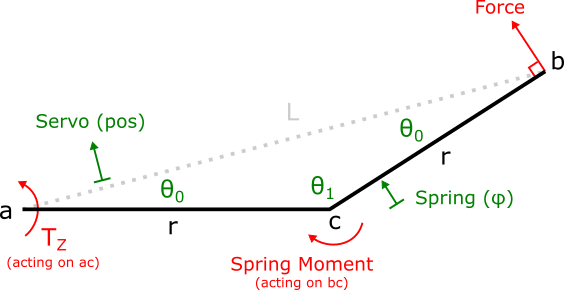
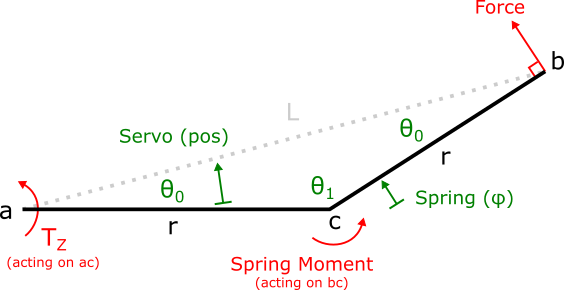
Update code to support new test setup geometry

diff --git a/spring/characterization-v2/characterize-spring.py b/spring/characterization-v2/characterize-spring.py
@@ -2,39 +2,29 @@ import pandas as pd
 import numpy as np
 import matplotlib.pyplot as plt
 
-def FourBarCalc(bad: float, ad: float, ab: float, bc: float, cd: float):
+def TriCalc(angle_t0: float, link_0: float):
     """
-    Calculate the joint positions of a four-bar linkage
+    Calculate the joint positions of virtual linkage triangle
 
-    Uses only the cosine rule to avoid multiple solutions
-
-    :param bad: Angle between base and link 1 (rad)
-    :param ad: Link 0 length (base)
-    :param ab: Link 1 length
-    :param bc: Link 2 length
-    :param cd: Link 3 length
-    :return: point coords, angles
+    :param angle_t0: Angle between base and link 1 (rad)
+    :param link_0: Pusher arm length (m)
+    :return: list of vertex coords, list of thetas, r, phi
     """
-    bd = np.sqrt(ab**2+ad**2-2*ab*ad*np.cos(bad))
-    abd = np.arccos((ab**2+bd**2-ad**2)/(2*ab*bd))
-    adb = np.arccos((ad**2+bd**2-ab**2)/(2*ad*bd))
-    cbd = np.arccos((bc**2+bd**2-cd**2)/(2*bc*bd))
-    bcd = np.arccos((bc**2+cd**2-bd**2)/(2*bc*cd))
-    bdc = np.arccos((bd**2+cd**2-bc**2)/(2*bd*cd))
 
-    adc = adb + bdc
-    abc = abd + cbd
+    link_r = link_0 / (2 * np.cos(angle_t0))
+    angle_t1 = np.pi - (2 * angle_t0)
+    angle_phi = np.pi - angle_t1
 
     pts = np.array([
-        [0,0],
-        [ab*np.cos(bad),ab*np.sin(bad)],
-        [cd*np.cos(np.pi-adc)+ad,cd*np.sin(np.pi-adc)],
-        [ad,0]
+        [0, 0],
+        [link_0 * np.cos(angle_t0), link_0 * np.sin(angle_t0)],
+        [link_r, 0],
+        [0, 0]
     ])
 
-    ts = np.array([bad, abc, bcd, adc])
+    ts = np.array([angle_t0, angle_t1])
 
-    return pts, ts
+    return pts, ts, link_r, angle_phi
 
 DEG_2_RAD = np.pi/180
 
@@ -46,9 +36,7 @@ POSITION_LIMITS = [-25, 40]
 print('Expected counter value: ' + str((2*POSITION_RANGE)/POSITION_STEP))
 
 # Structure geometry
-link_ab = 0.020  # m
-link_bc = 0.010  # m
-init_bad = 30    # deg
+l = 0.030  # m
 
 # Open torque data
 df = pd.read_csv (r'tz.csv')
@@ -98,9 +86,8 @@ for c in range(data.shape[1]):
             elif position > POSITION_LIMITS[1]:
                 pos = POSITION_LIMITS[1]
 
-            # 4-bar position
-            theta0 = (init_bad + pos) * DEG_2_RAD
-            points, thetas = FourBarCalc(theta0, link_ab/2, link_ab, link_bc, link_ab/2)
+            # Triangle position and spring displacement
+            points, theta, r, phi = TriCalc((pos * DEG_2_RAD), l)
 
             # Plot every 10th position
             if counters[c]%10 == 0:
@@ -108,30 +95,16 @@ for c in range(data.shape[1]):
                 ys = points[:, 1]
                 axes[0, 0].plot(xs, ys)
 
-            # Spring displacement
-            phi = thetas[3] - np.pi
-
-            # Force angle
-            alpha = thetas[0] + thetas[1] - np.pi/2
-            beta = np.pi - thetas[0] - thetas[1]
-            gamma = thetas[3] - np.pi/2
-            delta = np.pi - thetas[3]
-
-            assert (alpha + beta + gamma + delta - np.pi) < 0.000001, 'Angles do not sum to 180'
-
             # Spring moment
-            r = link_ab/2
-            num = Tz/(r*np.sin(beta))
-            den = 1/(r*np.sin(beta)) + 1/(r*np.cos(beta)*np.sin(delta) + r*np.sin(beta)*np.sin(gamma))
-            M = num/den
+            M = (-Tz)/(1 + np.cos(phi))
 
             # Force
-            F = (Tz - M)/(r*np.sin(beta))
-            Fx = F * np.cos(beta)
-            Fy = F * np.sin(beta)
+            F = M/r
+            Fx = F * np.sin(-phi)
+            Fy = F * np.cos(-phi)
 
             # Store results at this position
-            results.append([pos, phi/DEG_2_RAD, phi, Tz, M, F, Fx, Fy])
+            results.append([pos, phi/DEG_2_RAD, phi, Tz, -M, F, Fx, Fy])
 
             # Update system state
             counters[c] = counters[c] + 1
